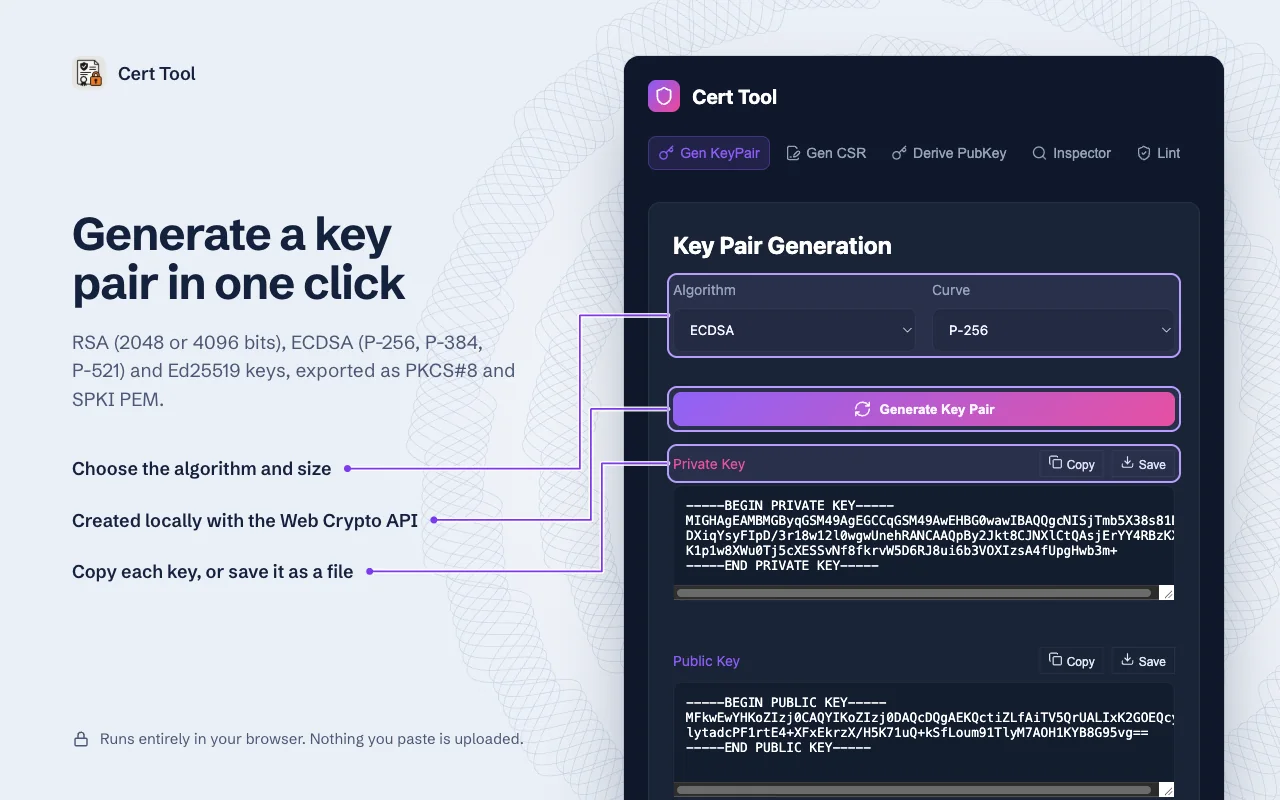
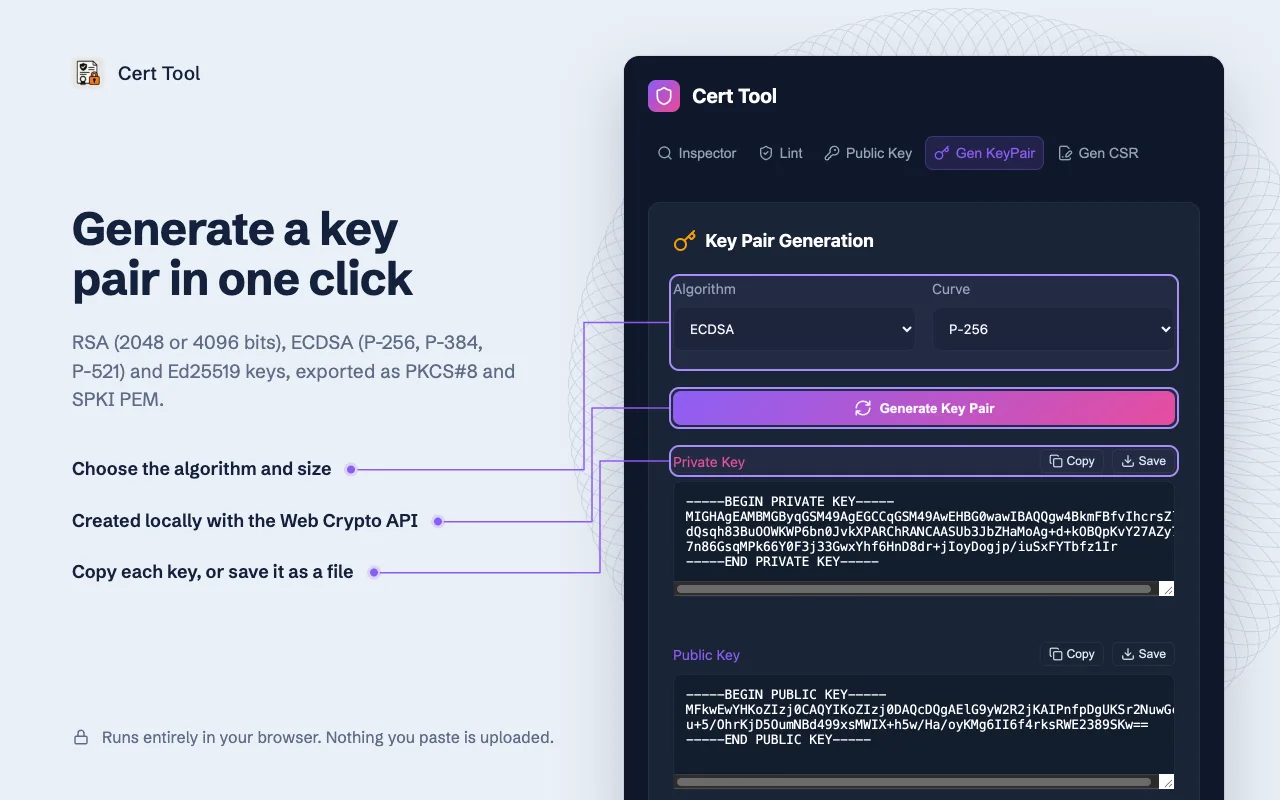
feat: Cert Tool 1.5.0 に合わせて紹介ページとサポートページを更新
- 紹介ページの Public key パネル:
  - 1.5.0 で加わった Match(2 つの PEM が同じ鍵ペアのものか確かめる機能)を追記した。
    fullchain.pem をそのまま貼れることと、比較の根拠と各鍵のピンが出ることも書いた。
  - 画面写真を 5-derive から 5-public-key に替え、代替テキストも合わせた。
- 紹介ページの Key pair パネル: 画面写真 3-keypair を、新しいタブの並びのものにした。
- サポートページ: タブの一覧を 1.5.0 の名前と並び順にした。
  Derive PubKey は Public Key になり、その中に Derive と Match がある。

画面写真は拡張リポジトリの screenshots/store/*.png から cwebp -q 82 -m 6 で作った。

Claude-Session: https://claude.ai/code/session_01C9oCtG91HxpP7e6zEsNLCs

diff --git a/cert-tool/index.html b/cert-tool/index.html
@@ -503,12 +503,13 @@ lE04fNybj+gu+smLAjASawg4lQd3Efqh5BJ1LHZyZf3qsV2wBX4RxlsnZXBZ0V8H
         </div>
 
         <div class="panel" role="tabpanel" id="panel-derive" aria-labelledby="tab-derive" hidden>
-          <img src="/cert-tool/screens/5-derive.webp" width="1280" height="800" alt="The Public Key tab showing the public key taken from a pasted private key." loading="lazy" />
+          <img src="/cert-tool/screens/5-public-key.webp" width="1280" height="800" alt="The Public Key tab’s Match view: a private key and a fullchain.pem found to be for the same key pair, with what was compared and each key’s public key pin." loading="lazy" />
           <div>
-            <h3>Get the public key</h3>
+            <h3>Get the public key, or check a key pair</h3>
             <ul>
-              <li>From a private key, a certificate, a CSR or a public key</li>
-              <li>The input type is detected for you, and the key comes out as SPKI PEM</li>
+              <li>Derive: the public key of a private key, certificate, CSR or public key, as SPKI PEM</li>
+              <li>Match: whether two PEMs are for the same key pair, such as a private key and its certificate, or a CSR and the certificate issued from it</li>
+              <li>Paste a fullchain.pem as it is; the result shows what was compared and each key’s pin</li>
             </ul>
           </div>
         </div>

diff --git a/cert-tool/support.html b/cert-tool/support.html
@@ -16,7 +16,7 @@
     <h2>Using Cert Tool</h2>
     <ul>
       <li>Install Cert Tool from the <a href="https://chromewebstore.google.com/detail/cert-tool/ojgmjpfknnlfcfjcljkdcfpbpgciefkk" target="_blank" rel="noopener">Chrome Web Store</a>. It needs Chrome 137 or later.</li>
-      <li>Click the toolbar icon to open the popup. It opens on the <strong>Inspector</strong> tab; the other tabs are <strong>Gen KeyPair</strong>, <strong>Gen CSR</strong>, <strong>Derive PubKey</strong> and <strong>Lint</strong>.</li>
+      <li>Click the toolbar icon to open the popup. It opens on the <strong>Inspector</strong> tab; the other tabs are <strong>Lint</strong>, <strong>Public Key</strong> (with <strong>Derive</strong> and <strong>Match</strong> inside), <strong>Gen KeyPair</strong> and <strong>Gen CSR</strong>.</li>
       <li>To see the certificate chain of the site you’re on, click <strong>Show this site’s certificate</strong> on the Inspector tab.</li>
       <li>To check the certificates on a page, click <strong>Scan this page</strong> on the Inspector tab. Hover over or click a badge for details.</li>
       <li>To check one block, select it, right-click, and choose <strong>Inspect certificate with Cert Tool</strong>.</li>
